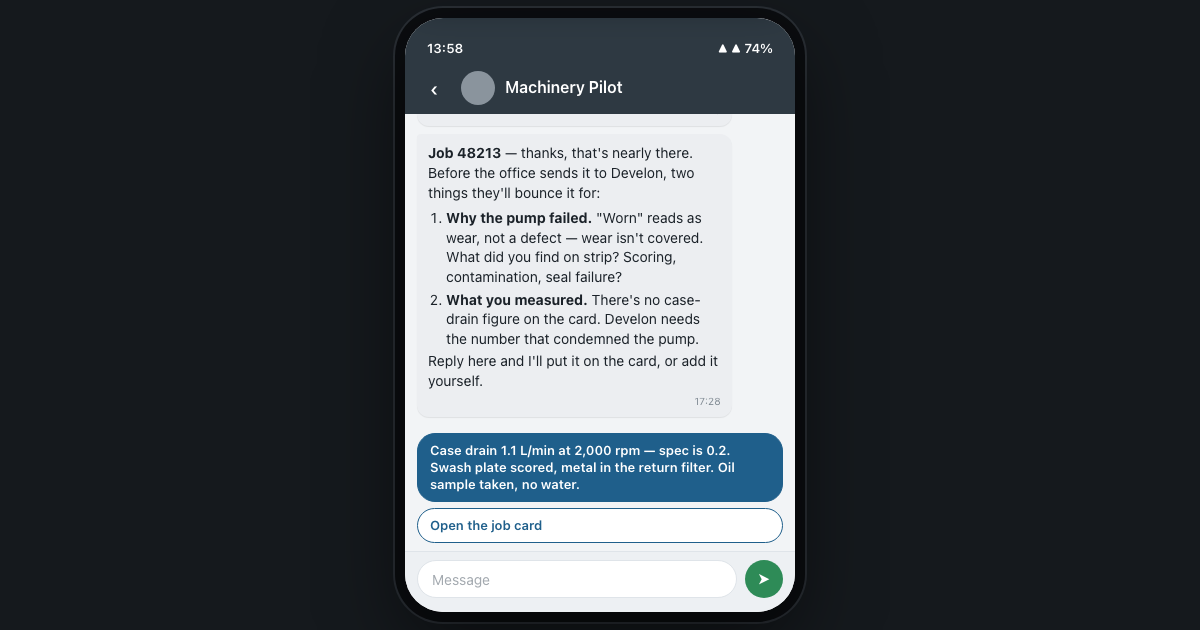
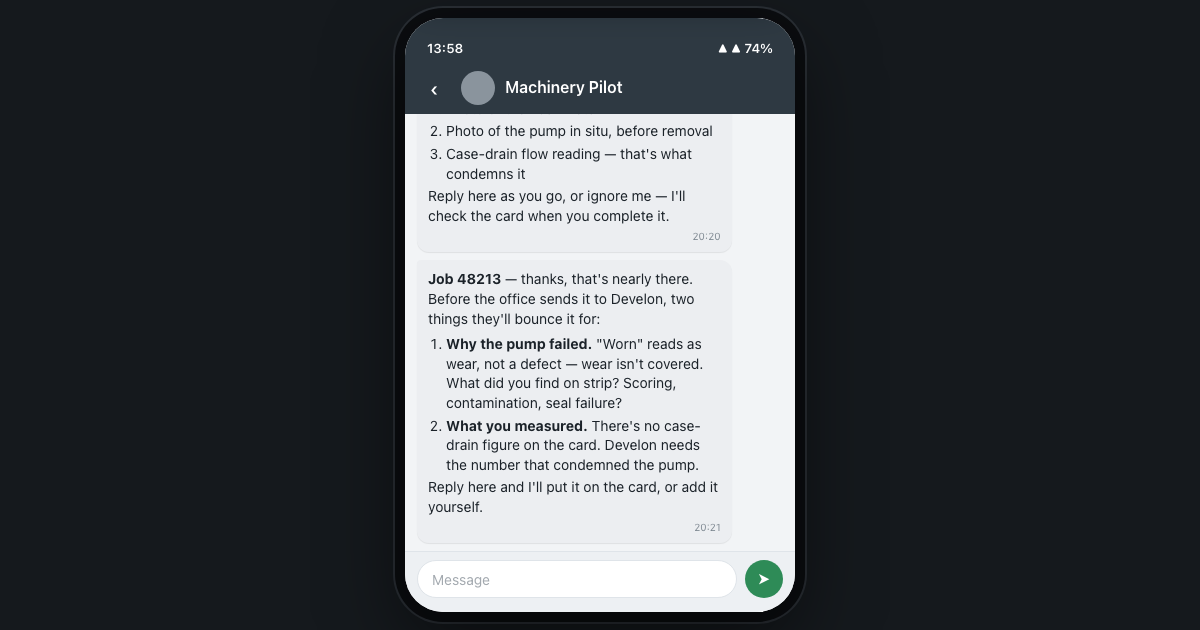
v6: retimed 40s loop, no replies

Changed region(s): [[0.3392, 0.181, 0.6783, 0.8444]]

diff --git a/public/index.html b/public/index.html
@@ -81,16 +81,11 @@
   .thread .content{background:var(--thread);padding:12px 12px 8px;display:flex;flex-direction:column;gap:8px}
   .msg{max-width:86%;padding:9px 11px;border-radius:12px;font-size:14px;line-height:1.4;background:var(--bubble-in);box-shadow:0 1px 1px rgba(0,0,0,.08);white-space:pre-wrap;position:relative}
   .msg.in{align-self:flex-start;border-top-left-radius:4px}
-  .msg.out{align-self:flex-end;background:var(--bubble-out);color:#fff;border-top-right-radius:4px}
   .msg .ts{display:block;font-size:10px;color:#7d8790;text-align:right;margin-top:4px}
-  .msg.out .ts{color:rgba(255,255,255,.78)}
   .msg ol{padding-left:18px;margin:6px 0 2px}
   .msg li{margin:3px 0}
   .msg .good{color:var(--ok);font-weight:700}
   .day{align-self:center;font-size:11px;background:#E3E7EB;color:#5B6770;padding:3px 9px;border-radius:8px;margin:2px 0}
-  .replies{display:flex;flex-direction:column;gap:6px;padding:8px 12px;background:var(--thread)}
-  .replies button{border:1.5px solid var(--mp);color:var(--mp);background:#fff;border-radius:18px;padding:8px 12px;font-size:13px;font-weight:600;text-align:left;line-height:1.3}
-  .replies button.open{background:var(--mp);color:#fff}
   .composer{display:flex;gap:8px;padding:8px 12px 14px;background:#EDF0F3;border-top:1px solid #DFE4E9}
   .composer div{flex:1;height:38px;border-radius:19px;background:#fff;border:1px solid #DFE4E9;color:#A3A9AF;font-size:14px;display:flex;align-items:center;padding:0 14px}
   .composer span{width:38px;height:38px;border-radius:50%;background:var(--ok);color:#fff;display:grid;place-items:center;font-size:16px}
@@ -185,7 +180,6 @@
     <div class="statusbar"><span>13:58</span><span>▲ ▲ 74%</span></div>
     <div class="topbar"><button class="back" id="threadBack" aria-label="Back">‹</button><div class="av" aria-hidden="true"></div><div class="nm">Machinery Pilot</div></div>
     <div class="content" id="threadBody"><div class="day">Today</div></div>
-    <div class="replies" id="replies"></div>
     <div class="composer"><div>Message</div><span>➤</span></div>
   </section>
 
@@ -285,24 +279,16 @@
   // ---- messages
   const START_MSG = `<b>Job 48213 · Develon DX300LC-7K</b>\nDevelon will ask for these — grab them before you leave:<ol><li>Photo of the hour meter</li><li>Photo of the pump in situ, before removal</li><li>Case-drain flow reading — that's what condemns it</li></ol>Reply here as you go, or ignore me — I'll check the card when you complete it.`;
   const GAP_MSG = `<b>Job 48213</b> — thanks, that's nearly there. Before the office sends it to Develon, two things they'll bounce it for:<ol><li><b>Why the pump failed.</b> "Worn" reads as wear, not a defect — wear isn't covered. What did you find on strip? Scoring, contamination, seal failure?</li><li><b>What you measured.</b> There's no case-drain figure on the card. Develon needs the number that condemned the pump.</li></ol>Reply here and I'll put it on the card, or add it yourself.`;
-  const OK_MSG = `Added to Cause on job 48213.\n\n<span class="good">Develon check: nothing missing.</span> The office can send it. Cheers — enjoy the rest of the shift.`;
-  const REPLY_TXT = `Case drain 1.1 L/min at 2,000 rpm — spec is 0.2. Swash plate scored, metal in the return filter. Oil sample taken, no water.`;
 
   function addMsg(html,dir){
     const m=document.createElement('div'); m.className='msg '+dir; m.innerHTML=html+`<span class="ts">${dir==='in'?stamp():stamp()}</span>`;
     $('threadBody').appendChild(m); $('threadBody').scrollTop=1e6;
   }
   function stamp(){ const d=new Date(); return d.toTimeString().slice(0,5); }
-  function setReplies(list){
-    const r=$('replies'); r.innerHTML='';
-    list.forEach(([label,fn,cls])=>{ const b=document.createElement('button'); b.textContent=label; if(cls) b.className=cls; b.addEventListener('click',fn); r.appendChild(b); });
-  }
-
   function msgDelay(kind){
-    if(!AUTO) return kind==='start'?1500:kind==='complete'?3500:1200;
-    if(kind==='start') return 1500;                              // tapped at 1.5 s -> banner at 3.0 s
-    if(kind==='complete') return Math.max(700,19500-elapsed());  // banner at 19.5 s
-    return Math.max(600,31000-elapsed());                        // confirmation at 31.0 s
+    if(!AUTO) return kind==='start'?1500:3500;
+    if(kind==='start') return 2000;                              // tapped at 4.0 s -> banner at 6.0 s
+    return Math.max(700,27000-elapsed());                        // banner at 27.0 s
   }
 
   function notify(body,onOpen){
@@ -318,7 +304,6 @@
     if(!AUTO) at(600,fillWorksheet);   // manual: the card arrives filled, so Complete is always reachable
     timers.push(setTimeout(()=>{
       addMsg(START_MSG,'in');
-      setReplies([['👍 Got it',()=>{addMsg('👍','out');setReplies([]);}]]);
       notify('Develon will ask for 3 things on this job — hour meter photo, pump in situ, case-drain flow.',()=>{state.threadFrom='job';go('thread');});
     },msgDelay('start')));
   });
@@ -331,26 +316,14 @@
     state.completed=true; state.doneAt=stamp(); go('jobs');
     timers.push(setTimeout(()=>{
       addMsg(GAP_MSG,'in');
-      setReplies([
-        [REPLY_TXT, sendFix, 'open'],
-        ['Open the job card', ()=>{state.threadFrom='thread'; go('worksheet');}]
-      ]);
       notify('2 things Develon will bounce this for — why the pump failed, and the case-drain figure. 1 min to fix.',()=>{state.threadFrom='jobs';go('thread');});
     },msgDelay('complete')));
-  }
-
-  function sendFix(){
-    addMsg(REPLY_TXT.replace(/</g,'&lt;'),'out'); setReplies([]);
-    timers.push(setTimeout(()=>{
-      state.cause=(state.cause?state.cause+' ':'')+'Case drain 1.1 L/min at 2,000 rpm (spec 0.2). Swash plate scored, metal in return filter. Oil sample taken, no water — internal pump failure, not contamination.';
-      state.fixed=true; addMsg(OK_MSG,'in');
-    },msgDelay('fix')));
   }
 
   function reset(){
     timers.forEach(clearTimeout); ticks.forEach(clearInterval); timers=[]; ticks=[];
     Object.assign(state,{started:false,completed:false,fixed:false,threadFrom:'job',hours:'',hourPhoto:false,partPhoto:false,complaint:'',cause:'',correction:'',op:null,banner:null});
-    $('threadBody').innerHTML='<div class="day">Today</div>'; setReplies([]); $('banner').classList.remove('on');
+    $('threadBody').innerHTML='<div class="day">Today</div>'; $('banner').classList.remove('on');
     $('tip').classList.remove('on');
     document.querySelectorAll('.content').forEach(c=>c.scrollTop=0);
     document.querySelectorAll('.q').forEach(q=>q.classList.remove('fadein'));
@@ -406,19 +379,17 @@
 
   function play(){
     reset(); t0=Date.now();
-    go('job');                                     // 0.0  straight into the job, no jobs list
-    tapAt(2000,()=>$('startBtn'));                 // 2.0  the only finger on this screen
-    at(5000,()=>$('banner').click());              // 5.0  cut to the thread, then 6 s of nothing
-    at(11500,()=>go('job'));                       // 11.5 two 250 ms cuts back into the card
-    at(11750,()=>go('worksheet'));
-    at(12500,fadeFill);                            // 12.5 filled, bar the Cause
-    at(13600,()=>reveal($('q-cause')));
-    at(14000,()=>type($('q-cause'),FILL.cause));   // 14.0 types, then holds 1.5 s
-    tapAt(16000,()=>$('saveBtn'));                 // 16.0 save…
-    at(16400,doComplete);                          //      …which completes it here
-    at(21000,()=>$('banner').click());             // 21.0 gap message, then 7 s of nothing
-    tapAt(28500,()=>$('replies').querySelector('button'));
-    at(39500,()=>document.querySelector('.stage').classList.add('fade'));   // 37.0 + 3 s hold
+    go('job');                                     //  0.0  job detail, dwell 4.0
+    tapAt(4000,()=>$('startBtn'));                 //  4.0  taps Start, dwell 2.0
+    at(8000,()=>$('banner').click());              //  8.0  thread: Start text, dwell 7.0
+    at(15000,()=>go('job'));                       // 15.0  back to the job, then the card, dwell 2.0
+    at(15250,()=>go('worksheet'));
+    at(17000,fadeFill);                            // 17.0  filled bar the Cause, dwell 4.0
+    at(21000,()=>type($('q-cause'),FILL.cause));   // 21.0  Cause types, dwell 3.0
+    tapAt(24000,()=>$('saveBtn'));                 // 24.0  taps Save…
+    at(24400,doComplete);                          //       …which completes it, dwell 3.0
+    at(30000,()=>$('banner').click());             // 30.0  thread: gap text, dwell 10.0
+    at(39500,()=>document.querySelector('.stage').classList.add('fade'));
     at(40000,()=>{ document.querySelector('.stage').classList.remove('fade'); play(); });
   }
 

diff --git a/tools/record.py b/tools/record.py
@@ -7,8 +7,8 @@
 Outputs (video/ is gitignored):
   video/raw/desktop.webm      1280x720, one full 40 s loop
   video/raw/mobile.webm       390x844,  one full 40 s loop
-  video/shots/t{6,15,23,32}.png  verification frames
-  public/og.png               1200x630 share image, the 21.0 s state
+  video/shots/t{10,22,35}.png   verification frames
+  public/og.png               1200x630 share image, the 35 s state
 Then run tools/make-video.sh to produce the mp4s and the gif.
 """
 import argparse
@@ -26,8 +26,8 @@ ROOT = pathlib.Path(__file__).resolve().parent.parent
 PUBLIC = ROOT / "public"
 VIDEO = ROOT / "video"
 LOOP_MS = 40_000          # one full loop of the timeline
-SHOTS_MS = (6_000, 15_000, 23_000, 32_000)
-OG_MS = 21_600            # the 21.0 s beat: thread open on the gap message
+SHOTS_MS = (10_000, 22_000, 35_000)
+OG_MS = 35_000            # mid-dwell on the gap text
 
 
 def serve(directory):
